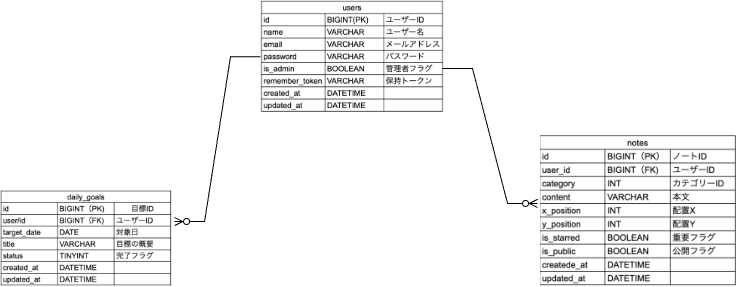
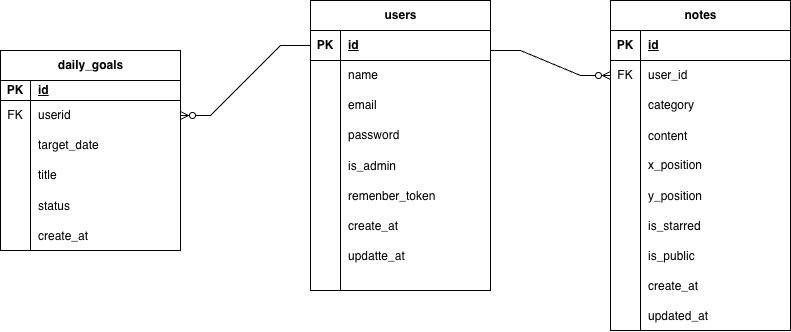
要件定義

diff --git a/refrection-tool/app/Livewire/ReflectionCanvas.php b/refrection-tool/app/Livewire/ReflectionCanvas.php
@@ -12,13 +12,14 @@ class ReflectionCanvas extends Component
     public $date;
     public $goal;
     
+    // 目標ステータス管理
+    public $goalStatus;
+
     // モーダル管理用の変数
     public $isModalOpen = false;
     public $noteContent = '';
     public $isStarred = false;
     public $frequentTags = ['重要', '継続', '要確認', 'ひらめき'];
-    
-    // 👇 追加：現在編集中の付箋IDを記憶する変数
     public $editingNoteId = null; 
 
     public function mount($date)
@@ -27,38 +28,51 @@ class ReflectionCanvas extends Component
         $this->goal = DailyGoal::where('user_id', Auth::id())
                                ->where('target_date', $this->date)
                                ->first();
+        
+        // 【修正】初期ステータスを文字列の '進行中' ではなく、数値の 0 に変更します
+        $this->goalStatus = $this->goal->status ?? 0;
     }
 
-    // 「＋」ボタンで新規作成モーダルを開く
+    // 目標ステータスが変更されたら保存
+    public function updatedGoalStatus($value)
+    {
+        if ($this->goal) {
+            // 【修正】画面から送られてきた値を (int) で確実な数値（整数）に変換して保存します
+            $this->goal->status = (int) $value;
+            $this->goal->save();
+        }
+    }
+
+    // 新規作成モーダルを開く
     public function openModal()
     {
         $this->resetInput();
         $this->isModalOpen = true;
     }
 
-    // 👇 追加：付箋をクリックして「編集モード」でモーダルを開く
+    // 編集モードでモーダルを開く
     public function editNote($noteId)
     {
         $note = Note::where('user_id', Auth::id())->find($noteId);
         if ($note) {
-            $this->editingNoteId = $note->id;     // 編集中のIDをセット
-            $this->noteContent = $note->content;  // 元の文字をセット
-            $this->isStarred = $note->is_starred; // 元のスター状態をセット
-            $this->isModalOpen = true;            // モーダルを開く
+            $this->editingNoteId = $note->id;
+            $this->noteContent = $note->content;
+            $this->isStarred = $note->is_starred;
+            $this->isModalOpen = true;
         }
     }
 
     public function closeModal()
     {
         $this->isModalOpen = false;
-        $this->resetInput(); // 閉じる時に中身を綺麗にする
+        $this->resetInput();
     }
 
     private function resetInput()
     {
         $this->noteContent = '';
         $this->isStarred = false;
-        $this->editingNoteId = null; // 新規作成モードに戻す
+        $this->editingNoteId = null;
     }
 
     public function addTag($tag)
@@ -66,13 +80,12 @@ class ReflectionCanvas extends Component
         $this->noteContent .= " #{$tag}";
     }
 
-    // 👇 変更：保存時に「新規作成」か「更新」かを自動で振り分ける
+    // 付箋の保存（新規 or 更新）
     public function saveNote()
     {
         $this->validate(['noteContent' => 'required|max:200']);
 
         if ($this->editingNoteId) {
-            // 【編集（更新）の場合】
             $note = Note::where('user_id', Auth::id())->find($this->editingNoteId);
             if ($note) {
                 $note->content = $this->noteContent;
@@ -80,10 +93,9 @@ class ReflectionCanvas extends Component
                 $note->save();
             }
         } else {
-            // 【新規作成の場合】
             $note = new Note();
             $note->user_id = Auth::id();
-            $note->category_id = 0; // デフォルトは未仕分け
+            $note->category_id = 0; // デフォルト：未仕分け
             $note->content = $this->noteContent;
             $note->is_starred = $this->isStarred;
             $note->created_at = $this->date . ' ' . now()->format('H:i:s');
@@ -93,7 +105,7 @@ class ReflectionCanvas extends Component
         $this->closeModal();
     }
 
-    // カテゴリーの移動（ドラッグ＆ドロップ）
+    // ドラッグ＆ドロップ移動
     public function updateNoteCategory($noteId, $newCategoryId)
     {
         $note = Note::where('user_id', Auth::id())->find($noteId);
@@ -103,7 +115,7 @@ class ReflectionCanvas extends Component
         }
     }
 
-    // ゴミ箱で削除
+    // ゴミ箱削除
     public function deleteNote($noteId)
     {
         $note = Note::where('user_id', Auth::id())->find($noteId);
